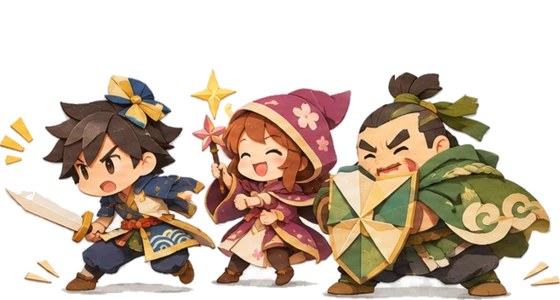
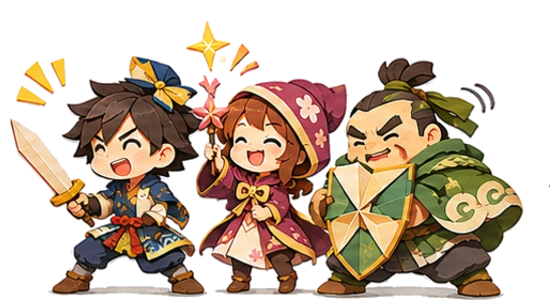
Add party combat pose states

diff --git a/Adventure/adventure.js b/Adventure/adventure.js
@@ -64,10 +64,12 @@
 
   const playerPoses = {
     idle: 'assets/party-pose-1.webp',
-    cut: 'assets/party-pose-2.webp',
-    guard: 'assets/party-pose-3.webp',
-    block: 'assets/party-pose-4.webp',
-    complete: 'assets/party-pose-5.webp'
+    hit1: 'assets/party-pose-2.webp',
+    hit2: 'assets/party-pose-3.webp',
+    hit3: 'assets/party-pose-4.webp',
+    damaged: 'assets/party-pose-5.webp',
+    finisher: 'assets/party-pose-6.webp',
+    defeated: 'assets/party-pose-7.webp'
   };
 
   function preloadSprite(source) {
@@ -562,7 +564,7 @@
     inputAnimating = true;
     ui.targetSequence.children[stepIndex]?.classList.add(isFinalHit ? 'finisher' : 'cut');
     animateActor(ui.playerActor, isFinalHit ? 'blocking' : 'cut');
-    setPlayerPose(isFinalHit ? 'block' : 'cut');
+    if (!isFinalHit) setPlayerPose(`hit${(stepIndex % 3) + 1}`);
     if (isFinalHit) playFinisherSound();
     else playDrumHit(stepIndex === 0);
     stepIndex++;
@@ -602,7 +604,7 @@
     animateActor(ui.enemyActor, 'attack-lunge');
     setEnemyPose('attack');
     animateActor(ui.playerActor, 'damaged');
-    setPlayerPose('guard');
+    setPlayerPose('damaged');
     ui.arena.classList.remove('player-damage');
     void ui.arena.offsetWidth;
     ui.arena.classList.add('player-damage');
@@ -630,7 +632,7 @@
     ui.feedback.textContent = `Última batida! ${currentEnemy.name} recebeu ${damage} de dano.`;
     ui.feedback.className = 'battle-feedback good';
     animateActor(ui.enemyActor, 'recoil');
-    setPlayerPose('complete');
+    setPlayerPose('finisher');
     animateActor(ui.playerActor, 'counter-attack');
     ui.arena.classList.remove('enemy-impact');
     void ui.arena.offsetWidth;
@@ -654,6 +656,7 @@
   function finishStage(victory) {
     stopTimer();
     locked = true;
+    if (!victory) setPlayerPose('defeated');
     const perfectRun = victory && !lastWrongAnswer;
     const earnedStar = perfectRun && !progress.perfectStages.includes(stage.id);
     if (victory) {
